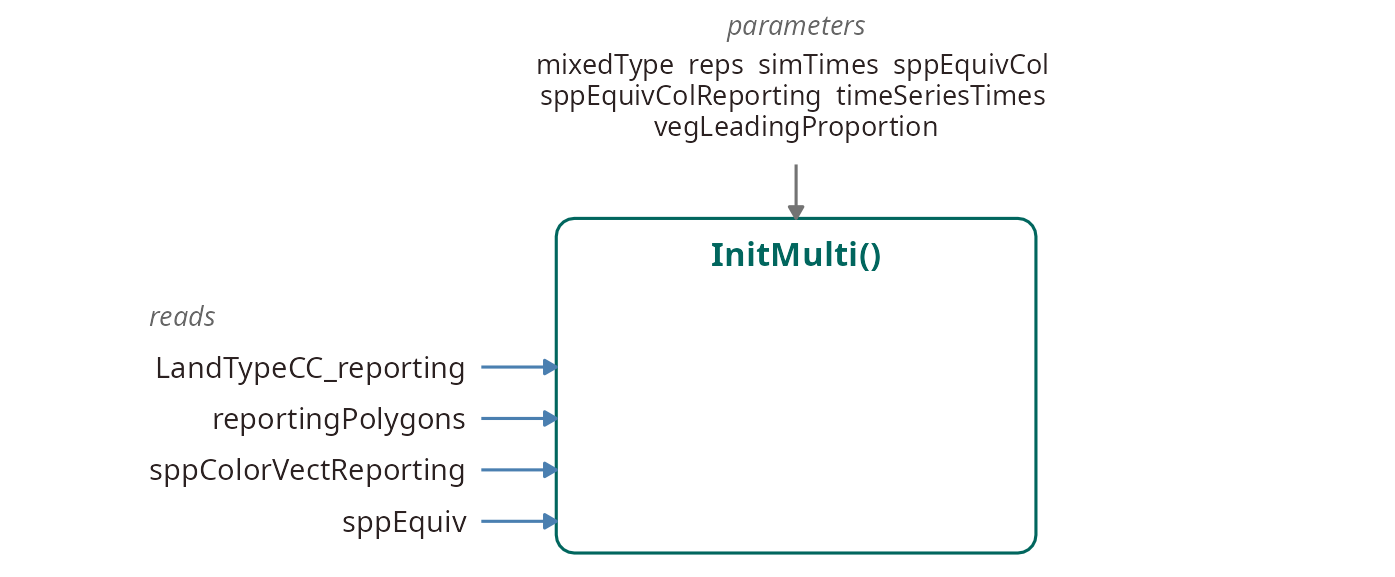
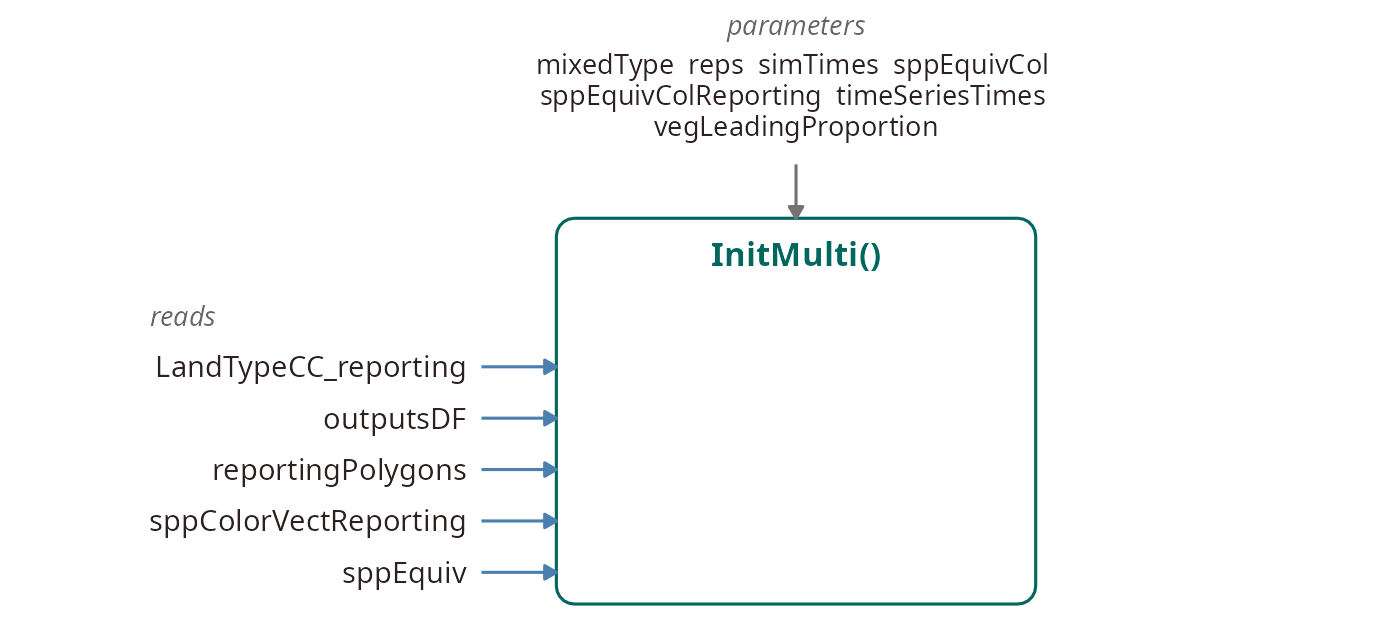
Re-build NRV_summary.Rmd

diff --git a/NRV_summary.md b/NRV_summary.md
@@ -1,6 +1,6 @@
 ---
 title: "NRV_summary Manual"
-subtitle: "v.2.0.0.9040"
+subtitle: "v.2.0.0.9041"
 date: "Last updated: 2026-11-24"
 output:
   bookdown::html_document2:
@@ -72,6 +72,12 @@ Table \@ref(tab:moduleInputs-NRV-summary) shows the full list of module inputs.
    <td style="text-align:left;"> flammableMap </td>
    <td style="text-align:left;"> SpatRaster </td>
    <td style="text-align:left;"> binary flammability map (required with `type = 'single'`) </td>
+   <td style="text-align:left;"> NA </td>
+  </tr>
+  <tr>
+   <td style="text-align:left;"> outputsDF </td>
+   <td style="text-align:left;"> data.frame </td>
+   <td style="text-align:left;"> (mode = 'multi', optional) the files the replicate simulations saved, with at least a `file` column (e.g. their `outputs(sim)` row-bound). When absent, the replicate folders under `outputPath(sim)` are listed. </td>
    <td style="text-align:left;"> NA </td>
   </tr>
   <tr>
@@ -422,7 +428,7 @@ Table \@ref(tab:eventObjects-NRV-summary) lists, for each object, the code that 
   </tr>
  </thead>
 <tbody>
-  <tr grouplength="5"><td colspan="3" style="border-bottom: 1px solid;"><strong>Inputs</strong></td></tr>
+  <tr grouplength="6"><td colspan="3" style="border-bottom: 1px solid;"><strong>Inputs</strong></td></tr>
 <tr>
    <td style="text-align:left;padding-left: 2em;" indentlevel="1"> sppEquiv </td>
    <td style="text-align:left;">  </td>
@@ -430,6 +436,11 @@ Table \@ref(tab:eventObjects-NRV-summary) lists, for each object, the code that 
   </tr>
   <tr>
    <td style="text-align:left;padding-left: 2em;" indentlevel="1"> LandTypeCC_reporting </td>
+   <td style="text-align:left;">  </td>
+   <td style="text-align:left;"> init: InitMulti() </td>
+  </tr>
+  <tr>
+   <td style="text-align:left;padding-left: 2em;" indentlevel="1"> outputsDF </td>
    <td style="text-align:left;">  </td>
    <td style="text-align:left;"> init: InitMulti() </td>
   </tr>
